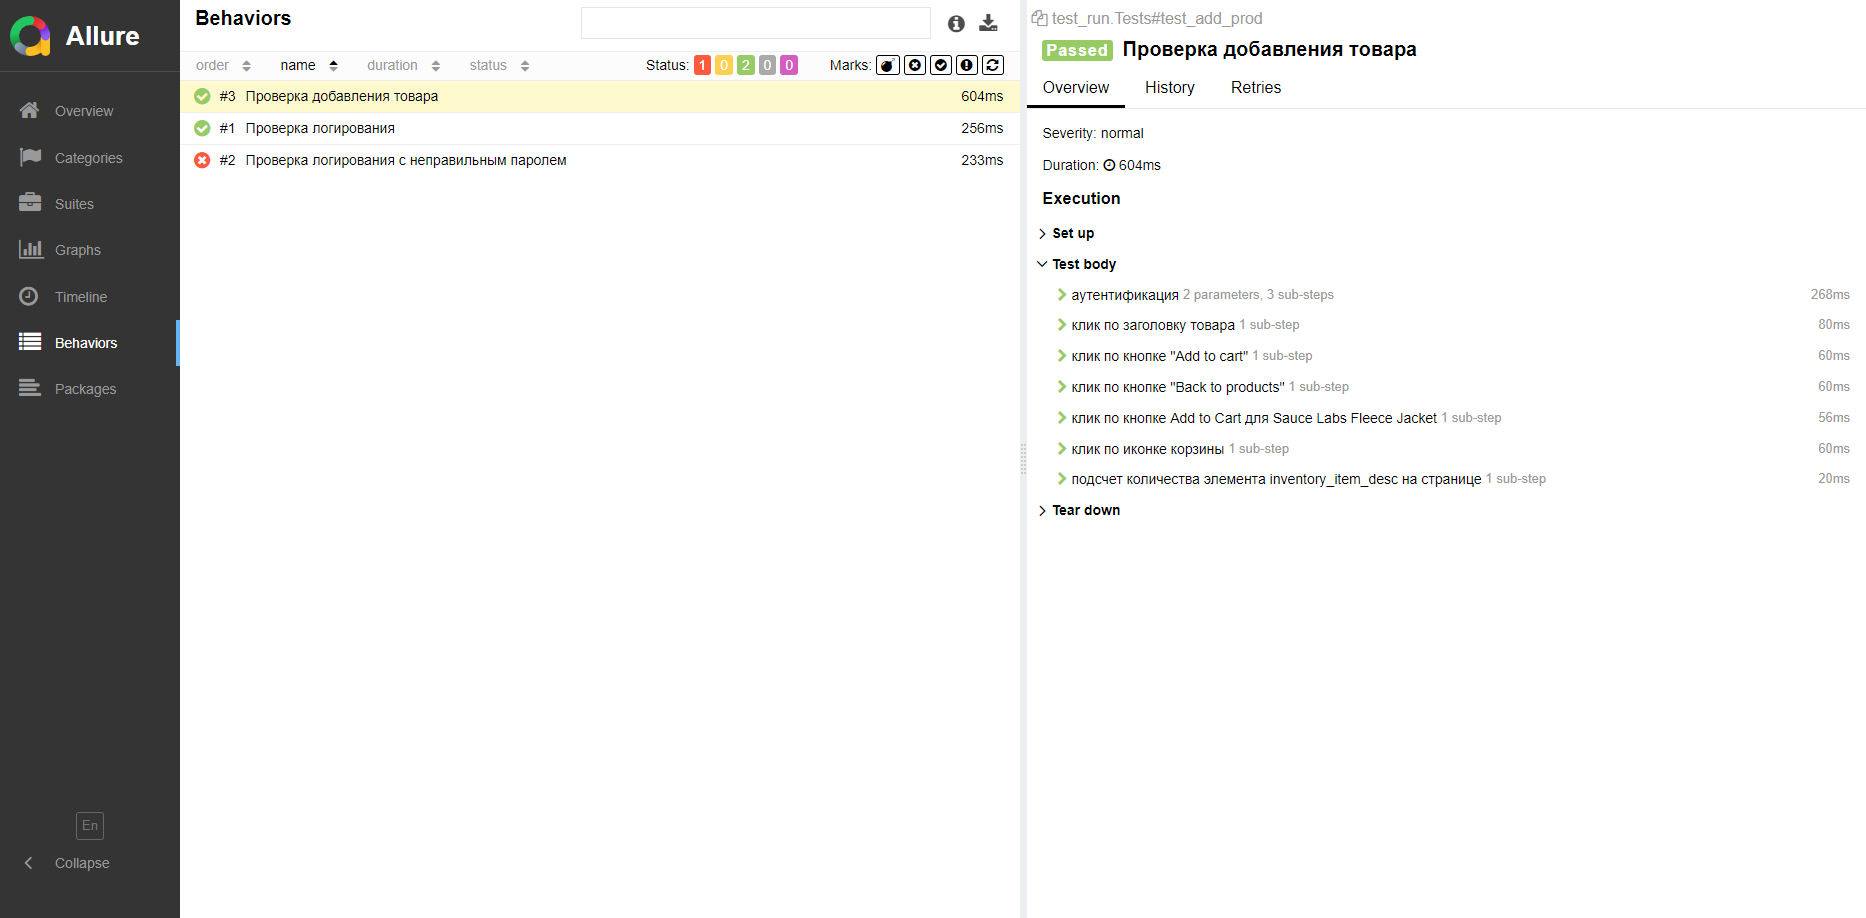
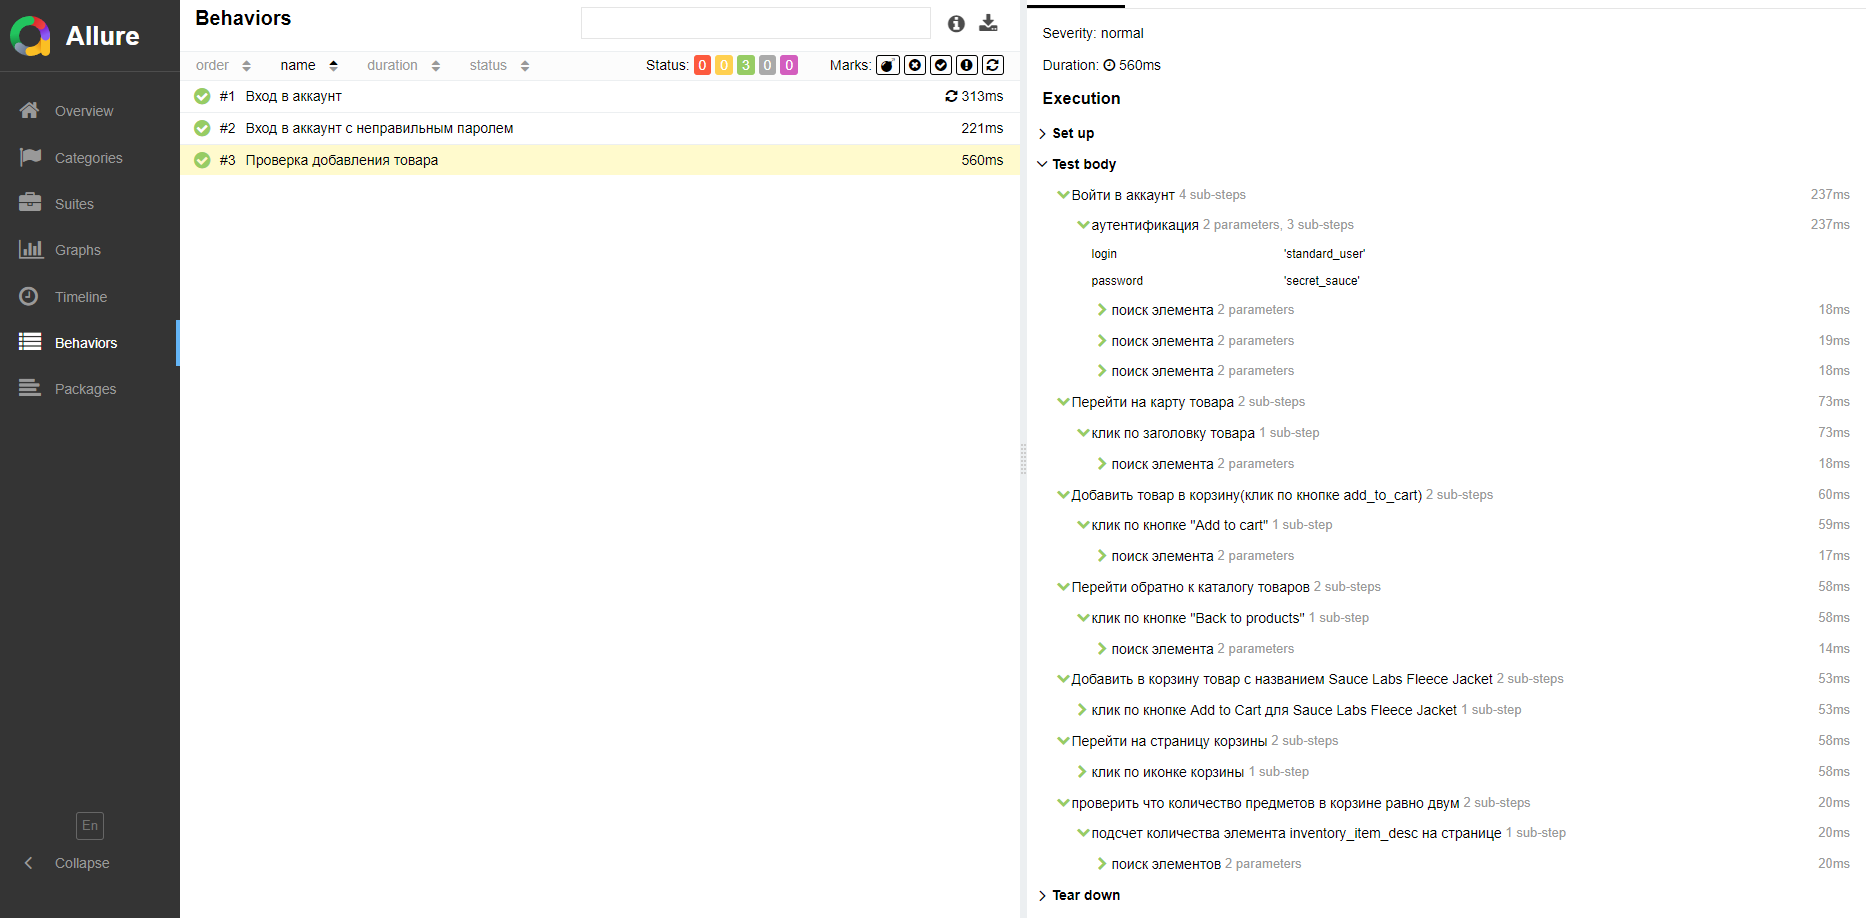
allure(update)

diff --git a/first_ui_test/test_run.py b/first_ui_test/test_run.py
@@ -5,32 +5,42 @@ from pages import BasePage, LoginPage, InventoryPage, ItemPage, CartPage
 @allure.suite('Тесты лабы')
 class Tests:
 
-    @allure.title('Проверка логирования')
+    @allure.title('Вход в аккаунт')
     def test_login(self, driver) -> None:
         auth_page = LoginPage(driver)
-        auth_page.auth('standard_user', 'secret_sauce')
-        assert InventoryPage(driver).check_inventory_page_open()
+        with allure.step('Войти в аккаунт '):
+            auth_page.auth('standard_user', 'secret_sauce')
 
-    @allure.title('Проверка логирования с неправильным паролем')
+        InventoryPage(driver).check_inventory_page_open()
+
+    @allure.title('Вход в аккаунт с неправильным паролем')
     def test_error_password(self, driver) -> None:
         auth_page = LoginPage(driver)
-        auth_page.auth('standard_user', '123')
-        assert InventoryPage(driver).check_inventory_page_open(), (
-            '[FAILED]: неверный пароль,страница https://www.saucedemo.com/inventory.html не открылась')
+        with allure.step('Войти в аккаунт '):
+            auth_page.auth('standard_user', '123')
+
+        InventoryPage(driver).check_inventory_page_not_open()
 
     @allure.title('Проверка добавления товара')
     def test_add_prod(self, driver) -> None:
         auth_page = LoginPage(driver)
-        auth_page.auth('standard_user', 'secret_sauce')
+        with allure.step('Войти в аккаунт '):
+            auth_page.auth('standard_user', 'secret_sauce')
         inventory_page = InventoryPage(driver)
-        inventory_page.choose_item()
+        with allure.step('Перейти на карту товара'):
+            inventory_page.choose_item()
 
         item_page = ItemPage(driver)
-        item_page.add_to_cart_btn_click()
-        item_page.back_to_products_click()
+        with allure.step('Добавить товар в корзину(клик по кнопке add_to_cart)'):
+            item_page.add_to_cart_btn_click()
+        with allure.step('Перейти обратно к каталогу товаров'):
+            item_page.back_to_products_click()
 
-        inventory_page.add_jacket_to_cart_btn_click()
-        inventory_page.cart_btn_click()
+        with allure.step('Добавить в корзину товар с названием Sauce Labs Fleece Jacket'):
+            inventory_page.add_jacket_to_cart_btn_click()
+        with allure.step('Перейти на страницу корзины'):
+            inventory_page.cart_btn_click()
 
         cart_page = CartPage(driver)
-        assert cart_page.number_of_products() == 2
+        with allure.step('проверить что количество предметов в корзине равно двум'):
+            assert cart_page.number_of_products() == 2

diff --git a/first_ui_test/pages.py b/first_ui_test/pages.py
@@ -64,8 +64,16 @@ class InventoryPage(BasePage):
         self.find_element(*self.cart_btn).click()
 
     @allure.step('проверить,открыта ли страница https://www.saucedemo.com/inventory.html')
-    def check_inventory_page_open(self) -> bool:
-        return self.get_current_url() == self.page_url
+    def check_inventory_page_open(self) -> None:
+        assert self.get_current_url() == self.page_url, (
+            '[FAILED]:Неправильный логин или/и пароль'
+        )
+
+    @allure.step('проверить,что страница https://www.saucedemo.com/inventory.html не открыта')
+    def check_inventory_page_not_open(self) -> None:
+        assert self.get_current_url() != self.page_url, (
+            '[FAILED]: Страница https://www.saucedemo.com/inventory.html открылась'
+        )
 
 
 class ItemPage(BasePage):

diff --git a/first_ui_test/conftest.py b/first_ui_test/conftest.py
@@ -1,4 +1,3 @@
-import allure
 import pytest
 from selenium import webdriver
 # from selenium.webdriver.chrome.options import Options
